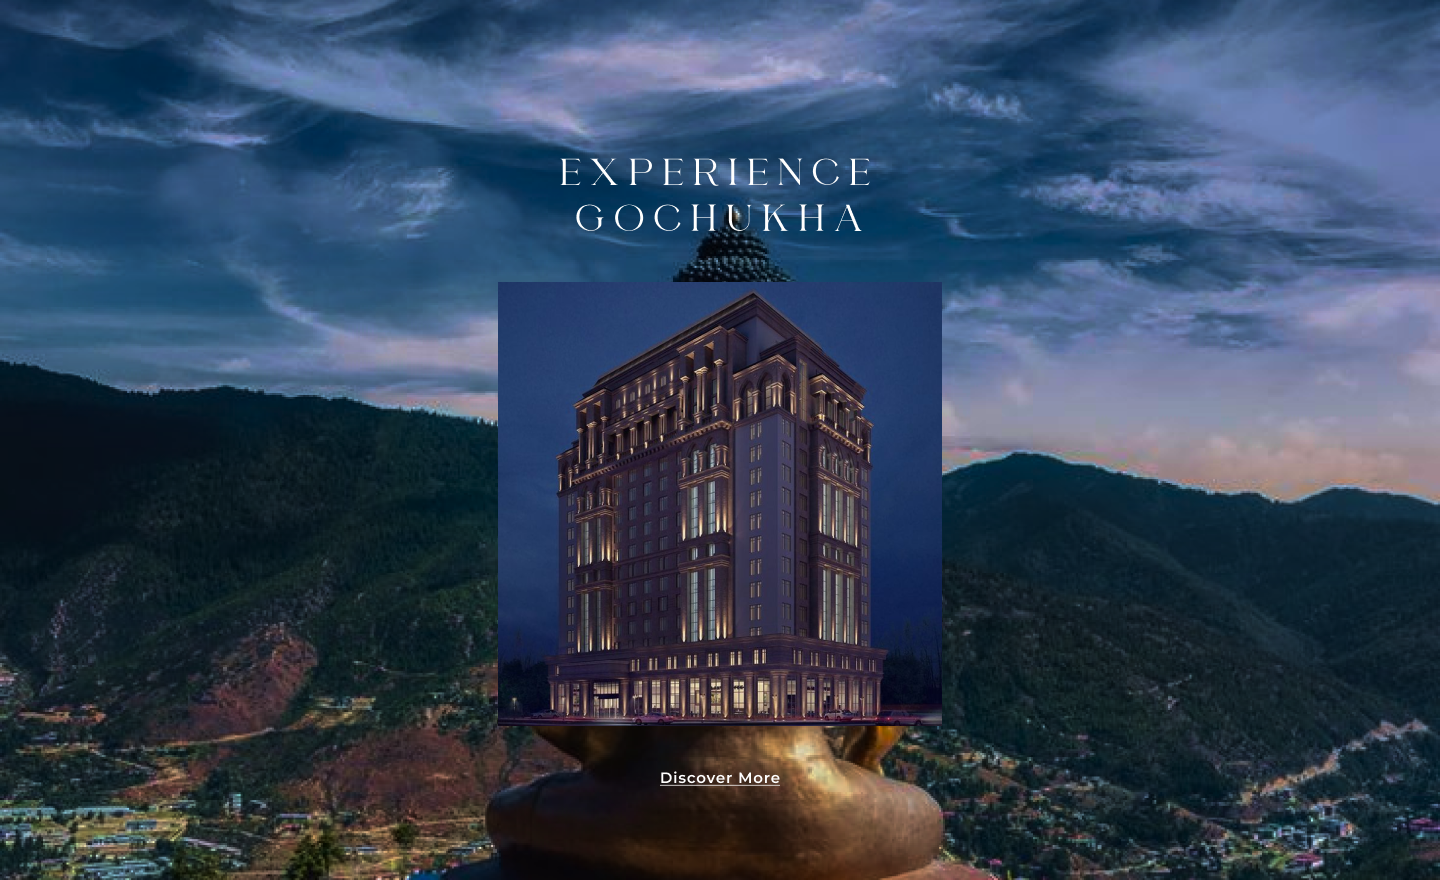
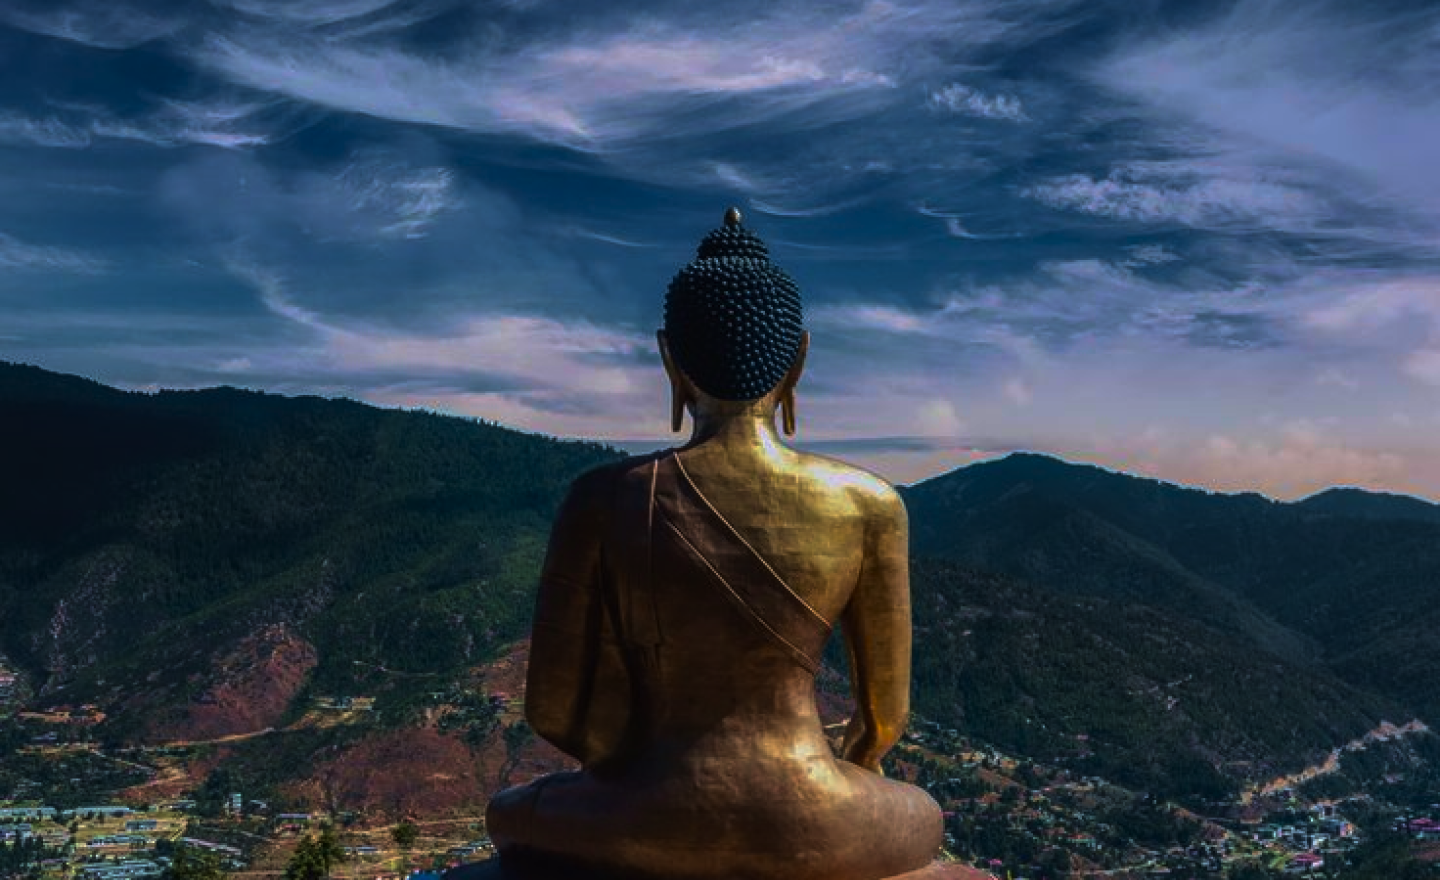
discover

diff --git a/css/main.css b/css/main.css
@@ -340,6 +340,37 @@ body {
   cursor: pointer;
 }
 
+.details {
+    background-image: url(../assets/img/background.png);
+    height: 130vh;
+    background-size: cover;
+    background-position: center;
+    background-repeat: no-repeat;
+    display: flex; 
+    align-items: center; 
+    justify-content: center;
+    text-align: center;
+}
+
+.details h1 {
+    color: white; 
+    font-size: 3rem;
+    margin: 0; 
+    text-shadow: 2px 2px 5px rgba(0, 0, 0, 0.7); 
+    margin-top: -40rem;
+    width: 30%;
+    font-weight: 300;
+    align-items: center;
+}
+.details img {
+    max-width: 100%;
+    height: auto;
+    margin-top: 3rem; 
+    margin-left: -30rem;
+}
+
+
+
 /* Responsive Design */
 @media (max-width: 768px) {
   .hero {

diff --git a/index.html b/index.html
@@ -147,6 +147,11 @@
         <img src="./assets/img/section1.png" alt="Gochukha Hotel" />
     </section>
 
+    <section class="details">
+        <h1>Experience Gochukha</h1>
+        <img src="./assets/img/bkg.png" alt="">
+    </section>
+
 
 </body>
 <script src="./assets/js/nav.js">
